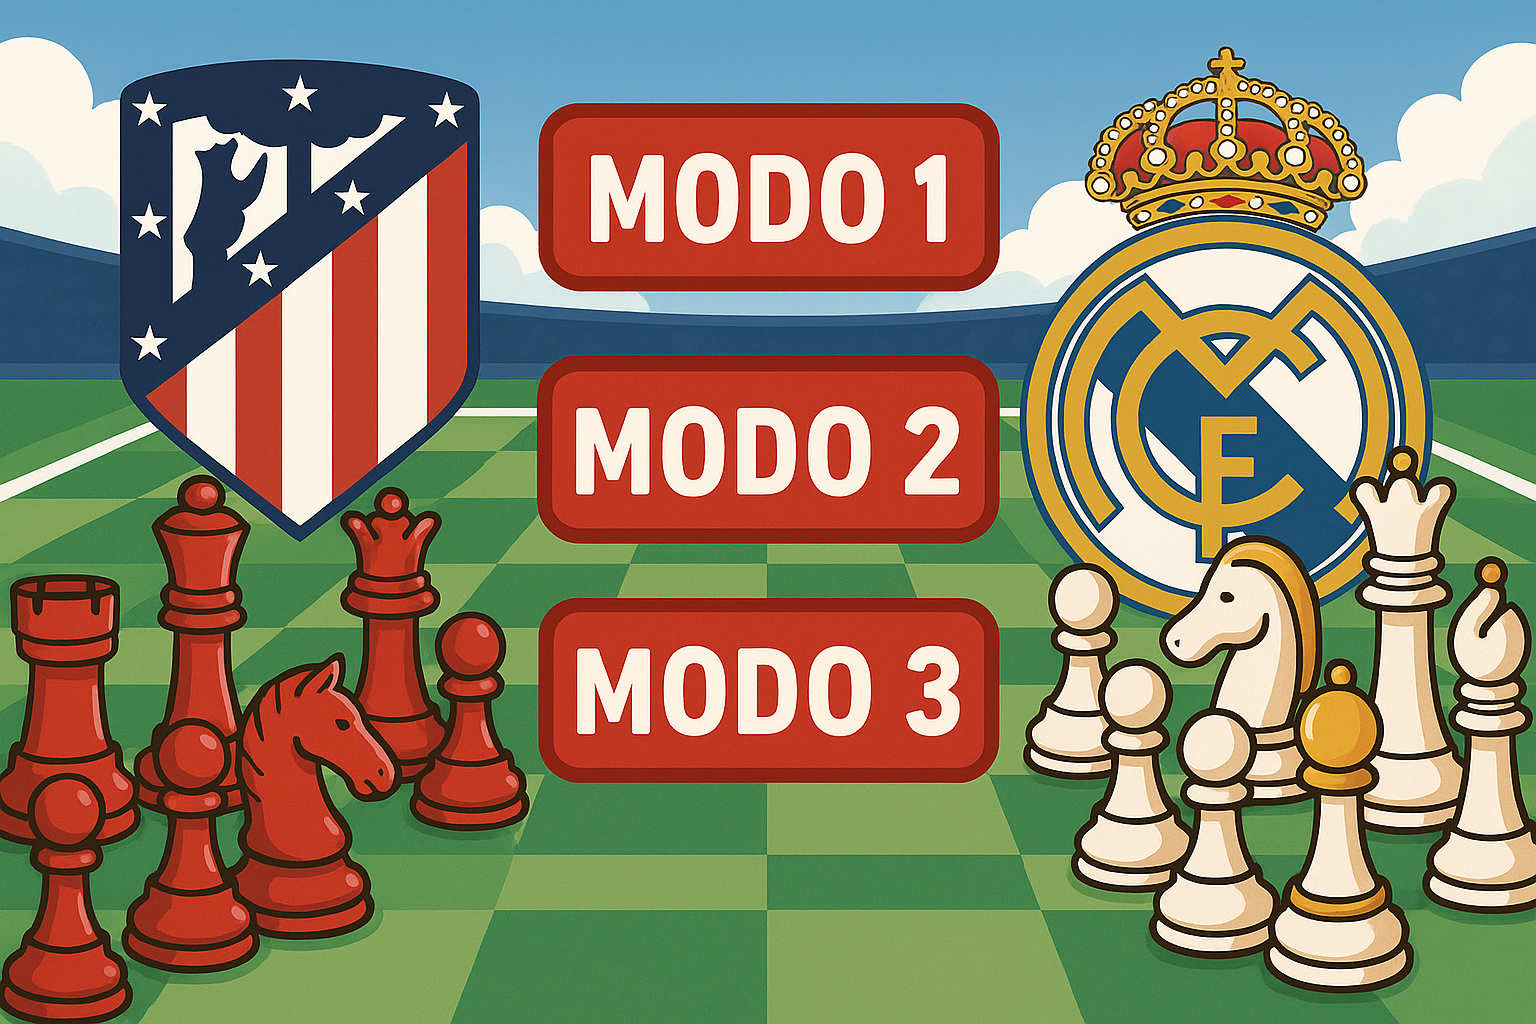
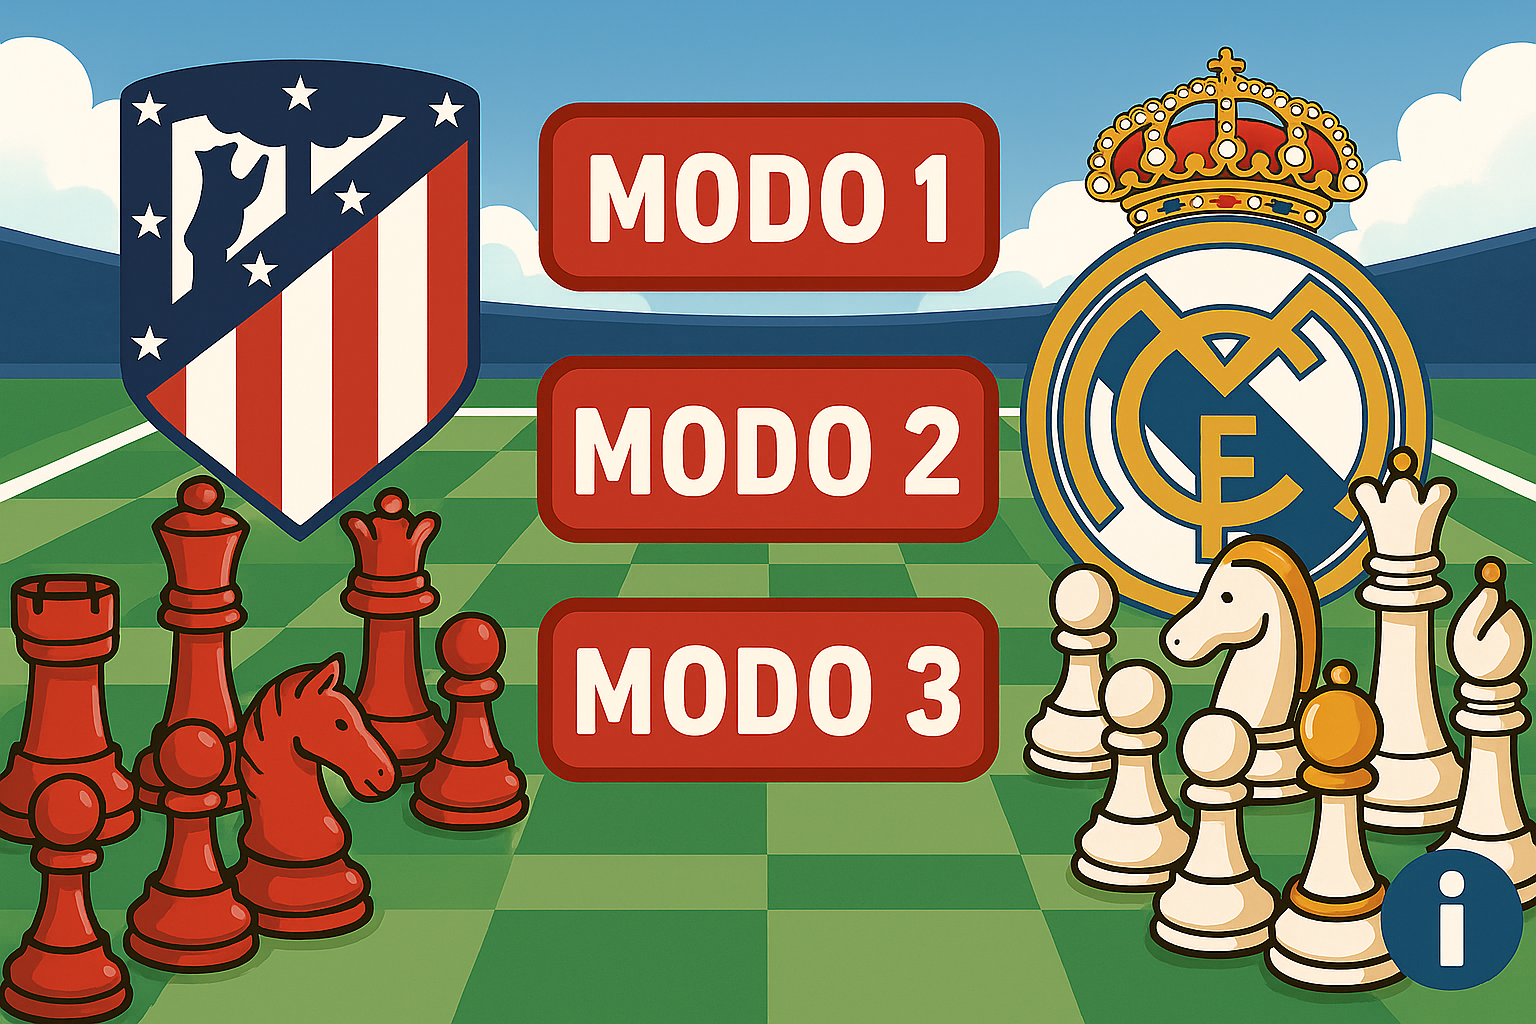
menu informacion

diff --git a/src/principal.cpp b/src/principal.cpp
@@ -20,7 +20,7 @@ bool fin_partida = false;
 unsigned int ultimo_tiempo_actualizado = 0;
 int jugador_que_pierde = 0;
 
-enum EstadoPantalla { MENU_START, MENU_MODOS, JUEGO, MENU_FINAL };
+enum EstadoPantalla { MENU_START, MENU_MODOS, JUEGO, MENU_FINAL, MENU_INFO};
 EstadoPantalla estado = MENU_START;
 int modoSeleccionado = 0;
 enum Turno { BLANCO, ROJO };
@@ -153,6 +153,22 @@ void OnDraw() {
 
 
     }
+
+    if (estado == MENU_INFO) {
+        glEnable(GL_TEXTURE_2D);
+        glBindTexture(GL_TEXTURE_2D, ETSIDI::getTexture("imagenes/menu3.png").id);
+        glDisable(GL_LIGHTING);
+        glBegin(GL_POLYGON);
+        glColor3f(1, 1, 1);
+        glTexCoord2d(0, 1); glVertex3d(-14, -3, 0.005);
+        glTexCoord2d(1, 1); glVertex3d(14, -3, 0.005);
+        glTexCoord2d(1, 0); glVertex3d(14, 18, 0.005);
+        glTexCoord2d(0, 0); glVertex3d(-14, 18, 0.005);
+        glEnd();
+        glEnable(GL_LIGHTING);
+        glDisable(GL_TEXTURE_2D);
+    }
+
 
     if (estado == MENU_FINAL) {
         std::string imagen_final = (jugador_que_pierde == 1) ? "imagenes/madridgana.png" : "imagenes/atleticogana.png";
@@ -311,7 +327,24 @@ void mouseClick(int button, int state, int x, int y) {
             return;
         }
 
+        // Clic sobre el icono "i" 
+        if (x_normal > 11 && x_normal < 13.5 && y_normal > -2 && y_normal < 0.5) {
+            estado = MENU_INFO;
+            glutPostRedisplay();
+            return;
+        }
+
+
         return;
+    }
+
+    if (estado == MENU_INFO && button == GLUT_LEFT_BUTTON && state == GLUT_DOWN) {
+        // Botón de retroceso en la esquina superior izquierda
+        if (x_normal > -14 && x_normal < -11.5 && y_normal > 16 && y_normal < 18.5) {
+            estado = MENU_MODOS;
+            glutPostRedisplay();
+            return;
+        }
     }
 
 
